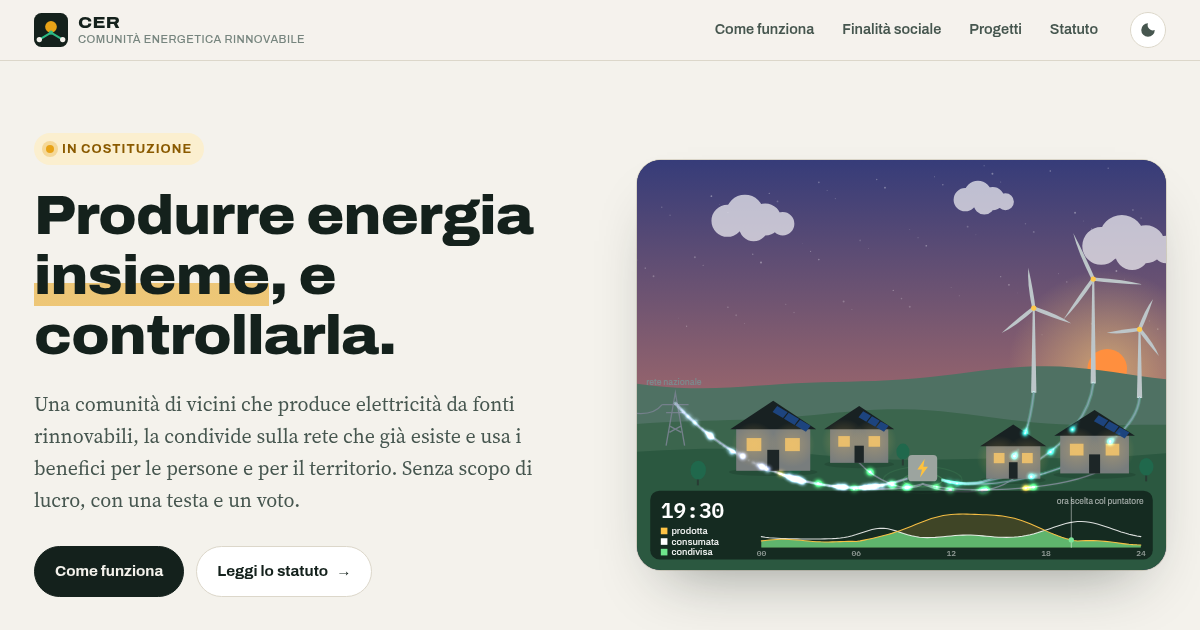
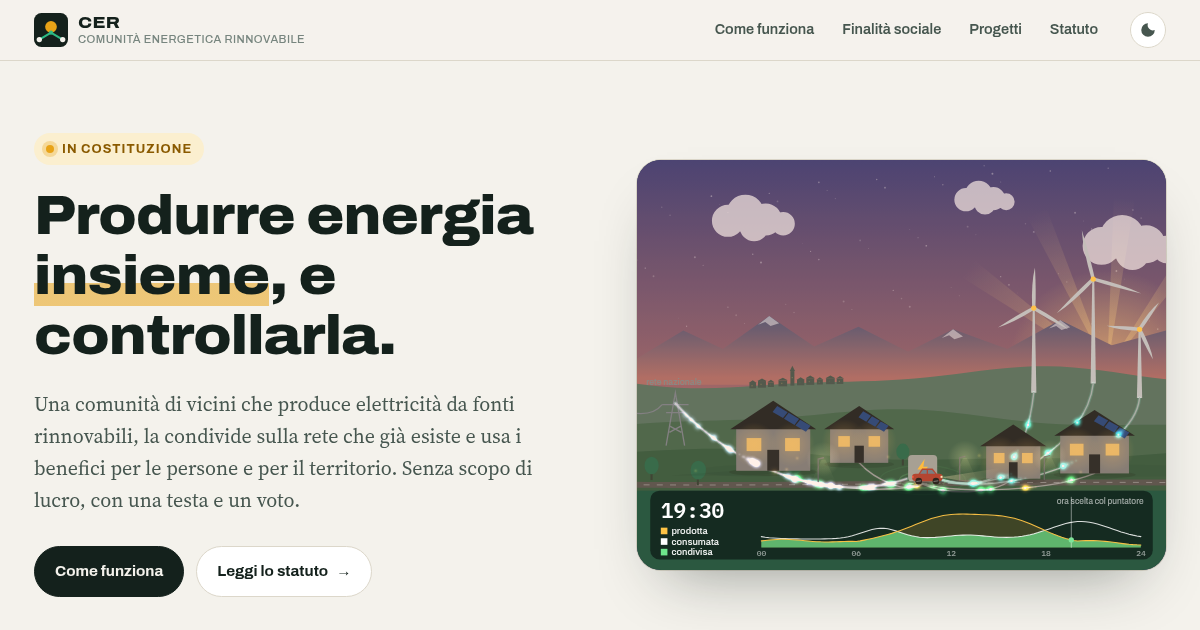
CER: la scena prende profondita' e vita
Montagne nella foschia, paese sulla collina con le luci la notte, raggi
del sole che ruotano, ombre delle case che seguono il sole, luce dorata
all'alba e al tramonto. Strada in primo piano con lampioni; un'auto
elettrica esce al mattino, torna a mezzogiorno a ricaricarsi col sole
(batteria e cavo con l'energia condivisa), riparte e rientra la sera coi
fari accesi. Uccelli di giorno, stelle cadenti e lucciole di notte, ombre
delle nuvole sui prati.

Claude-Session: https://claude.ai/code/session_01M1DzNbA7m3pXa3SEEcAFRV

diff --git a/cer/scene.js b/cer/scene.js
@@ -47,7 +47,7 @@
     { x: 640, base: 474, w: 104, h: 60, pv: 0.25, use: 0.26, roof: 36 }];
   const turbines = [{ x: 600, y: 352, hgt: 128, s: 0.9, a: 0.3 }, { x: 690, y: 338, hgt: 158, s: 1, a: 1.7 }, { x: 760, y: 360, hgt: 104, s: 1.15, a: 4 }];
   const PYLON = { x: 58, y: 432 };
-  const trees = [[238, 474, 15], [402, 452, 11], [592, 470, 13], [770, 476, 12], [92, 482, 13]];
+  const trees = [[238, 474, 15], [402, 452, 11], [592, 470, 13], [22, 474, 12], [92, 482, 13]];
   const stars = Array.from({ length: 70 }, (_, i) => ({ x: (i * 137.5) % W, y: ((i * 71.3) % 260) + 8, r: 0.6 + ((i * 13) % 10) / 10, p: i * 1.7 }));
   const clouds = [{ x: 120, y: 92, s: 1.1, v: 7 }, { x: 470, y: 60, s: 0.8, v: 11 }, { x: 690, y: 130, s: 1.3, v: 5 }];
 
@@ -83,6 +83,7 @@
       spawn('use' + i, o.path, S * o.use, 'share', true, dt);
     });
     turbines.forEach((o, i) => spawn('w' + i, o.path, w * 0.75 / 3, 'wind', false, dt));
+    if (carAt(h).charging) spawn('ev', chargePath, S * 0.45, 'share', false, dt);
     if (P > C) spawn('exp', gridPath, (P - C) * 0.8, 'sun', true, dt);
     else spawn('imp', gridPath, (C - P) * 0.8, 'grid', false, dt);
     for (const p of parts) p.t += p.v * dt;
@@ -103,6 +104,25 @@
     ctx.fill();
   }
 
+  const hy = (y0, amp, ph, x) => y0 + Math.sin(x / 140 + ph) * amp + Math.sin(x / 61 + ph * 2) * amp * 0.3;
+  const ROAD = (x) => 489 + Math.sin(x / 190 + 1) * 2;
+  const ease = (f) => f * f * (3 - 2 * f);
+  // l'auto elettrica della casa a destra: esce, torna a mezzogiorno a
+  // ricaricarsi col sole, riparte, torna la sera
+  const PARK = 776, OUT = -80;
+  const TRIPS = [[8, 8.7, PARK, OUT], [12.3, 13, OUT, PARK], [16.3, 17, PARK, OUT], [19.2, 19.9, OUT, PARK]];
+  function carAt(h) {
+    for (const [a, b, x0, x1] of TRIPS) if (h >= a && h < b) return { x: x0 + (x1 - x0) * ease((h - a) / (b - a)), dir: Math.sign(x1 - x0), moving: true };
+    const away = (h >= 8.7 && h < 12.3) || (h >= 17 && h < 19.2);
+    return { x: away ? -999 : PARK, dir: 1, moving: false, charging: h >= 13 && h < 16.3 };
+  }
+  const chargePath = [744, 462, 754, 476, 762, 478, 768, 474];
+  const LAMPS = [274, 488, 616];
+  const VILLAGE = [[170, 10, 8], [183, 12, 10], [198, 9, 7], [214, 13, 9], [232, 6, 22], [242, 11, 8], [256, 12, 10], [272, 9, 7], [286, 13, 9], [302, 10, 8]];
+  const PEAKS = [[0, 300], [70, 258], [130, 286], [200, 236], [268, 282], [335, 252], [410, 290], [478, 256], [560, 286], [640, 242], [718, 280], [800, 258]];
+  const flies = Array.from({ length: 18 }, (_, i) => ({ x: 40 + ((i * 97) % 720), y: 432 + ((i * 37) % 44), p: i * 2.1 }));
+  const flock = { on: false, x: 0, y: 0, wait: 2 };
+  let shoot = null;
   let hour = 9, clock = 0;
   function draw(dt) {
     const h = hour, L = daylight(h), s = solar(h), w = wind(h), P = prod(h), C = cons(h), S = Math.min(P, C);
@@ -121,8 +141,26 @@
     }
     // sole e luna
     const arc = (f) => [70 + f * 660, 340 - Math.sin(Math.PI * f) * 270];
+    // stella cadente, ogni tanto
+    if (L < 0.2 && !shoot && Math.random() < dt * 0.18) shoot = { x: 80 + Math.random() * 520, y: 20 + Math.random() * 120, t: 0 };
+    if (shoot) {
+      shoot.t += dt;
+      const f = shoot.t / 0.9, hx = shoot.x + f * 170, hyy = shoot.y + f * 60;
+      const sg = ctx.createLinearGradient(hx - 90, hyy - 32, hx, hyy);
+      sg.addColorStop(0, 'rgba(255,255,255,0)'); sg.addColorStop(1, `rgba(255,255,255,${1 - f})`);
+      ctx.strokeStyle = sg; ctx.lineWidth = 1.6; ctx.beginPath(); ctx.moveTo(hx - 90, hyy - 32); ctx.lineTo(hx, hyy); ctx.stroke();
+      if (f >= 1) shoot = null;
+    }
+    const golden = g(h, 6.9, 0.8) + g(h, 19.3, 0.8);
     if (h > 5.5 && h < 20.5) {
       const [sx, sy] = arc((h - 6) / 14);
+      // raggi che ruotano piano, piu' visibili all'alba e al tramonto
+      ctx.save(); ctx.translate(sx, sy); ctx.rotate(clock * 0.04);
+      const rg = ctx.createRadialGradient(0, 0, 20, 0, 0, 260);
+      rg.addColorStop(0, `rgba(255,220,140,${0.16 + 0.2 * golden})`); rg.addColorStop(1, 'rgba(255,220,140,0)');
+      ctx.fillStyle = rg;
+      for (let q = 0; q < 12; q++) { ctx.rotate(Math.PI / 6); ctx.beginPath(); ctx.moveTo(0, 0); ctx.lineTo(260, -16); ctx.lineTo(260, 16); ctx.fill(); }
+      ctx.restore();
       const halo = ctx.createRadialGradient(sx, sy, 0, sx, sy, 150);
       halo.addColorStop(0, 'rgba(255,214,120,.55)'); halo.addColorStop(1, 'rgba(255,214,120,0)');
       ctx.fillStyle = halo; ctx.fillRect(sx - 150, sy - 150, 300, 300);
@@ -134,6 +172,27 @@
       ctx.fillStyle = 'rgba(235,240,255,.95)'; ctx.beginPath(); ctx.arc(mx, my, 18, 0, 7); ctx.fill();
       ctx.fillStyle = top; ctx.beginPath(); ctx.arc(mx + 8, my - 5, 16, 0, 7); ctx.fill();
     }
+    // montagne lontane, nella foschia dell'orizzonte
+    const mg = ctx.createLinearGradient(0, 236, 0, 330);
+    mg.addColorStop(0, dn('#8ea4c8', '#1a2348', L)); mg.addColorStop(1, hor);
+    ctx.fillStyle = mg; ctx.beginPath(); ctx.moveTo(0, 340);
+    for (const [x, y] of PEAKS) ctx.lineTo(x, y);
+    ctx.lineTo(W, 340); ctx.closePath(); ctx.fill();
+    ctx.fillStyle = `rgba(255,255,255,${0.25 + 0.6 * L})`;
+    for (const [x, y] of [[200, 236], [640, 242], [478, 256]]) { ctx.beginPath(); ctx.moveTo(x, y); ctx.lineTo(x - 17, y + 13); ctx.lineTo(x - 6, y + 9); ctx.lineTo(x + 2, y + 15); ctx.lineTo(x + 15, y + 11); ctx.closePath(); ctx.fill(); }
+    // uccelli, di giorno
+    if (L > 0.6) {
+      if (!flock.on && (flock.wait -= dt) < 0) Object.assign(flock, { on: true, x: -60, y: 70 + Math.random() * 110 });
+      if (flock.on) {
+        flock.x += 42 * dt;
+        ctx.strokeStyle = 'rgba(30,45,55,.75)'; ctx.lineWidth = 1.5;
+        [[0, 0], [-15, -8], [-15, 9], [-30, -15], [-30, 17], [-46, -21]].forEach(([dx, dy], q) => {
+          const bx = flock.x + dx, by = flock.y + dy + Math.sin(clock * 1.5 + q) * 2, f = Math.sin(clock * 9 + q * 1.3) * 4;
+          ctx.beginPath(); ctx.moveTo(bx - 6, by - f); ctx.quadraticCurveTo(bx - 2, by - 1, bx, by); ctx.quadraticCurveTo(bx + 2, by - 1, bx + 6, by - f); ctx.stroke();
+        });
+        if (flock.x > W + 70) Object.assign(flock, { on: false, wait: 5 + Math.random() * 8 });
+      }
+    }
     // nuvole
     for (const c of clouds) {
       c.x += c.v * dt; if (c.x > W + 60) c.x = -120;
@@ -142,6 +201,13 @@
 
     // colline lontane, pale
     hill(330, 14, 0.4, dn('#a9d9b9', '#17302e', L));
+    // il paese sulla collina lontana
+    for (const [x, w0, h0] of VILLAGE) {
+      const y = hy(330, 14, 0.4, x) + 3, peak = h0 > 20 ? 8 : 4;
+      ctx.fillStyle = dn('#86a597', '#0f2120', L); ctx.fillRect(x, y - h0, w0, h0);
+      ctx.beginPath(); ctx.moveTo(x - 1, y - h0); ctx.lineTo(x + w0 / 2, y - h0 - peak); ctx.lineTo(x + w0 + 1, y - h0); ctx.fill();
+      if (L < 0.5) { ctx.fillStyle = `rgba(255,210,120,${(1 - L / 0.5) * (0.6 + 0.4 * Math.sin(clock * 0.7 + x))})`; ctx.fillRect(x + w0 * 0.3, y - h0 * 0.6, 2, 2); }
+    }
     for (const t of turbines) {
       t.a += (0.6 + w * 7) * t.s * dt;
       const tc = dn('#f5f7f6', '#9aa7ad', L);
@@ -166,6 +232,15 @@
 
     // terreno davanti
     hill(446, 8, 4.2, dn('#58ad7c', '#0f231b', L));
+    ctx.fillStyle = `rgba(10,40,25,${0.12 * L})`;
+    for (const c of clouds) { ctx.beginPath(); ctx.ellipse(c.x + 40 * c.s, 470, 80 * c.s, 9, 0, 0, 7); ctx.fill(); }
+    // strada in primo piano
+    ctx.beginPath(); ctx.moveTo(-10, ROAD(-10) - 4);
+    for (let x = 0; x <= W + 10; x += 20) ctx.lineTo(x, ROAD(x) - 4);
+    for (let x = W + 10; x >= -10; x -= 20) ctx.lineTo(x, ROAD(x) + 5);
+    ctx.closePath(); ctx.fillStyle = dn('#9a9d94', '#1d2427', L); ctx.fill();
+    ctx.setLineDash([9, 11]); ctx.strokeStyle = dn('#f4f1e6', '#59616a', L); ctx.lineWidth = 1.2;
+    ctx.beginPath(); for (let x = -10; x <= W + 10; x += 10) x === -10 ? ctx.moveTo(x, ROAD(x) + 0.5) : ctx.lineTo(x, ROAD(x) + 0.5); ctx.stroke(); ctx.setLineDash([]);
 
     // cavi
     ctx.lineWidth = 2.2; ctx.lineCap = 'round';
@@ -174,8 +249,8 @@
     ctx.strokeStyle = cabCol; houses.forEach((o) => curve(o.path)); turbines.forEach((o) => curve(o.path)); curve(gridPath);
     // i cavi si illuminano con l'energia che ci passa
     ctx.save(); ctx.globalCompositeOperation = 'lighter'; ctx.lineWidth = 5;
-    houses.forEach((o) => { const f = Math.min(1, s * o.pv * 2.2 + S * o.use * 1.6); ctx.strokeStyle = `rgba(150,240,160,${0.16 * f})`; curve(o.path); });
-    turbines.forEach((o) => { ctx.strokeStyle = `rgba(90,225,210,${0.5 * w})`; curve(o.path); });
+    houses.forEach((o) => { const f = Math.min(1, s * o.pv * 2.2 + S * o.use * 1.6); ctx.strokeStyle = `rgba(150,240,160,${0.16 * f * (1 - 0.5 * L)})`; curve(o.path); });
+    turbines.forEach((o) => { ctx.strokeStyle = `rgba(90,225,210,${0.5 * w * (1 - 0.7 * L)})`; curve(o.path); });
     ctx.strokeStyle = P > C ? `rgba(255,190,60,${Math.min(0.3, (P - C) * 0.5)})` : `rgba(170,180,215,${Math.min(0.3, (C - P) * 0.4)})`; curve(gridPath);
     ctx.restore();
 
@@ -186,6 +261,15 @@
       ctx.fillStyle = dn('#2f9e6a', '#16473a', L); ctx.beginPath(); ctx.ellipse(x + sw * 0.4, y - r, r * 0.9, r * 1.1, sw * 0.02, 0, 7); ctx.fill();
     }
 
+    // ombre delle case: dalla parte opposta al sole, lunghe quando e' basso
+    if (h > 6.2 && h < 19.8) {
+      const f = (h - 6) / 14, sxx = 70 + f * 660, el = Math.sin(Math.PI * f);
+      ctx.fillStyle = `rgba(10,35,25,${0.2 * L})`;
+      for (const o of houses) {
+        const d = Math.sign(o.x + o.w / 2 - sxx) || 1, len = 16 + 90 * (1 - el);
+        ctx.beginPath(); ctx.moveTo(o.x, o.base); ctx.lineTo(o.x + o.w, o.base); ctx.lineTo(o.x + o.w + d * len, o.base + 7); ctx.lineTo(o.x + d * len, o.base + 7); ctx.fill();
+      }
+    }
     // case
     houses.forEach((o, i) => {
       const x = o.x, b = o.base, top = b - o.h;
@@ -255,6 +339,68 @@
       }
     }
     ctx.globalAlpha = 1; ctx.globalCompositeOperation = 'source-over';
+
+    // in primo piano, davanti a case e cavi: lampioni e auto
+    ctx.strokeStyle = dn('#3e4a4c', '#5d6a70', L); ctx.lineWidth = 2;
+    for (const x of LAMPS) { const y = ROAD(x) - 4; ctx.beginPath(); ctx.moveTo(x, y); ctx.lineTo(x, y - 34); ctx.lineTo(x + 8, y - 36); ctx.stroke(); }
+    const car = carAt(h);
+    if (car.charging) {
+      ctx.strokeStyle = dn('#2a3536', '#9aa6aa', L); ctx.lineWidth = 1.5;
+      ctx.beginPath(); ctx.moveTo(chargePath[0], chargePath[1]); ctx.bezierCurveTo(chargePath[2], chargePath[3], chargePath[4], chargePath[5], chargePath[6], chargePath[7]); ctx.stroke();
+    }
+    if (car.x > -100) {
+      const y = ROAD(car.x) + 1;
+      ctx.save(); ctx.translate(car.x, y); ctx.scale(car.dir, 1);
+      if (L < 0.55 && car.moving) {
+        const hl = ctx.createLinearGradient(22, 0, 110, 0);
+        hl.addColorStop(0, `rgba(255,240,190,${0.6 * (1 - L)})`); hl.addColorStop(1, 'rgba(255,240,190,0)');
+        ctx.fillStyle = hl; ctx.beginPath(); ctx.moveTo(21, -10); ctx.lineTo(110, -24); ctx.lineTo(110, 6); ctx.closePath(); ctx.fill();
+      }
+      ctx.fillStyle = 'rgba(0,0,0,.25)'; ctx.beginPath(); ctx.ellipse(0, 1, 24, 3, 0, 0, 7); ctx.fill();
+      ctx.fillStyle = dn('#e0533f', '#8a3226', L);
+      rr(-23, -15, 46, 11, 5); ctx.fill();
+      ctx.beginPath(); ctx.moveTo(-14, -14); ctx.lineTo(-8, -23); ctx.lineTo(8, -23); ctx.lineTo(15, -14); ctx.fill();
+      ctx.fillStyle = dn('#cfeaf6', '#2b3c4a', L);
+      ctx.beginPath(); ctx.moveTo(-11, -15); ctx.lineTo(-7, -21); ctx.lineTo(-1, -21); ctx.lineTo(-1, -15); ctx.fill();
+      ctx.beginPath(); ctx.moveTo(1, -15); ctx.lineTo(1, -21); ctx.lineTo(7, -21); ctx.lineTo(12, -15); ctx.fill();
+      ctx.fillStyle = L < 0.55 ? '#fff4c8' : '#ffe08a'; ctx.fillRect(20, -12, 3, 3);
+      ctx.fillStyle = '#ff5a4a'; ctx.fillRect(-23, -12, 2, 3);
+      for (const wx of [-13, 13]) {
+        ctx.fillStyle = '#15191b'; ctx.beginPath(); ctx.arc(wx, -4, 5, 0, 7); ctx.fill();
+        ctx.strokeStyle = '#9aa3a8'; ctx.lineWidth = 1; const ra = car.x / 5;
+        ctx.beginPath(); ctx.moveTo(wx + Math.cos(ra) * 3, -4 + Math.sin(ra) * 3); ctx.lineTo(wx - Math.cos(ra) * 3, -4 - Math.sin(ra) * 3); ctx.stroke();
+      }
+      ctx.restore();
+      if (car.charging) {
+        const lev = 0.3 + 0.7 * Math.min(1, (h - 13) / 3.2), bx = PARK - 13, by = ROAD(PARK) - 44;
+        ctx.fillStyle = 'rgba(10,20,18,.75)'; rr(bx - 3, by - 3, 32, 16, 4); ctx.fill();
+        ctx.strokeStyle = '#fff'; ctx.lineWidth = 1.2; ctx.strokeRect(bx, by, 22, 10); ctx.fillStyle = '#fff'; ctx.fillRect(bx + 22, by + 3, 2.5, 4);
+        ctx.fillStyle = `rgba(110,230,140,${0.75 + 0.25 * Math.sin(clock * 5)})`; ctx.fillRect(bx + 1.5, by + 1.5, 19 * lev, 7);
+      }
+    }
+    // luci della sera: lampioni e lucciole
+    if (L < 0.5) {
+      ctx.globalCompositeOperation = 'lighter';
+      const on = 1 - L / 0.5;
+      for (const x of LAMPS) {
+        const y = ROAD(x) - 40;
+        const lg = ctx.createRadialGradient(x + 8, y + 2, 0, x + 8, y + 2, 26);
+        lg.addColorStop(0, `rgba(255,214,140,${0.9 * on})`); lg.addColorStop(1, 'rgba(255,214,140,0)');
+        ctx.fillStyle = lg; ctx.fillRect(x - 20, y - 24, 56, 52);
+        const cg = ctx.createLinearGradient(0, y, 0, y + 42);
+        cg.addColorStop(0, `rgba(255,214,140,${0.32 * on})`); cg.addColorStop(1, 'rgba(255,214,140,0)');
+        ctx.fillStyle = cg; ctx.beginPath(); ctx.moveTo(x + 5, y + 3); ctx.lineTo(x + 11, y + 3); ctx.lineTo(x + 30, y + 44); ctx.lineTo(x - 14, y + 44); ctx.fill();
+      }
+      for (const f of flies) {
+        const a = on * Math.max(0, Math.sin(clock * 1.7 + f.p)) ** 3;
+        if (a < 0.02) continue;
+        ctx.globalAlpha = a;
+        ctx.drawImage(SPR.sun, f.x + Math.sin(clock * 0.6 + f.p) * 14 - 5, f.y + Math.cos(clock * 0.8 + f.p) * 6 - 5, 10, 10);
+      }
+      ctx.globalAlpha = 1; ctx.globalCompositeOperation = 'source-over';
+    }
+    // luce dorata all'alba e al tramonto
+    if (golden > 0.02) { ctx.fillStyle = `rgba(255,130,60,${0.12 * Math.min(1, golden)})`; ctx.fillRect(0, 0, W, 500); }
 
     // ── il grafico della giornata ──
     const X0 = 20, Y0 = 500, GW = W - 40, GH = 104;
